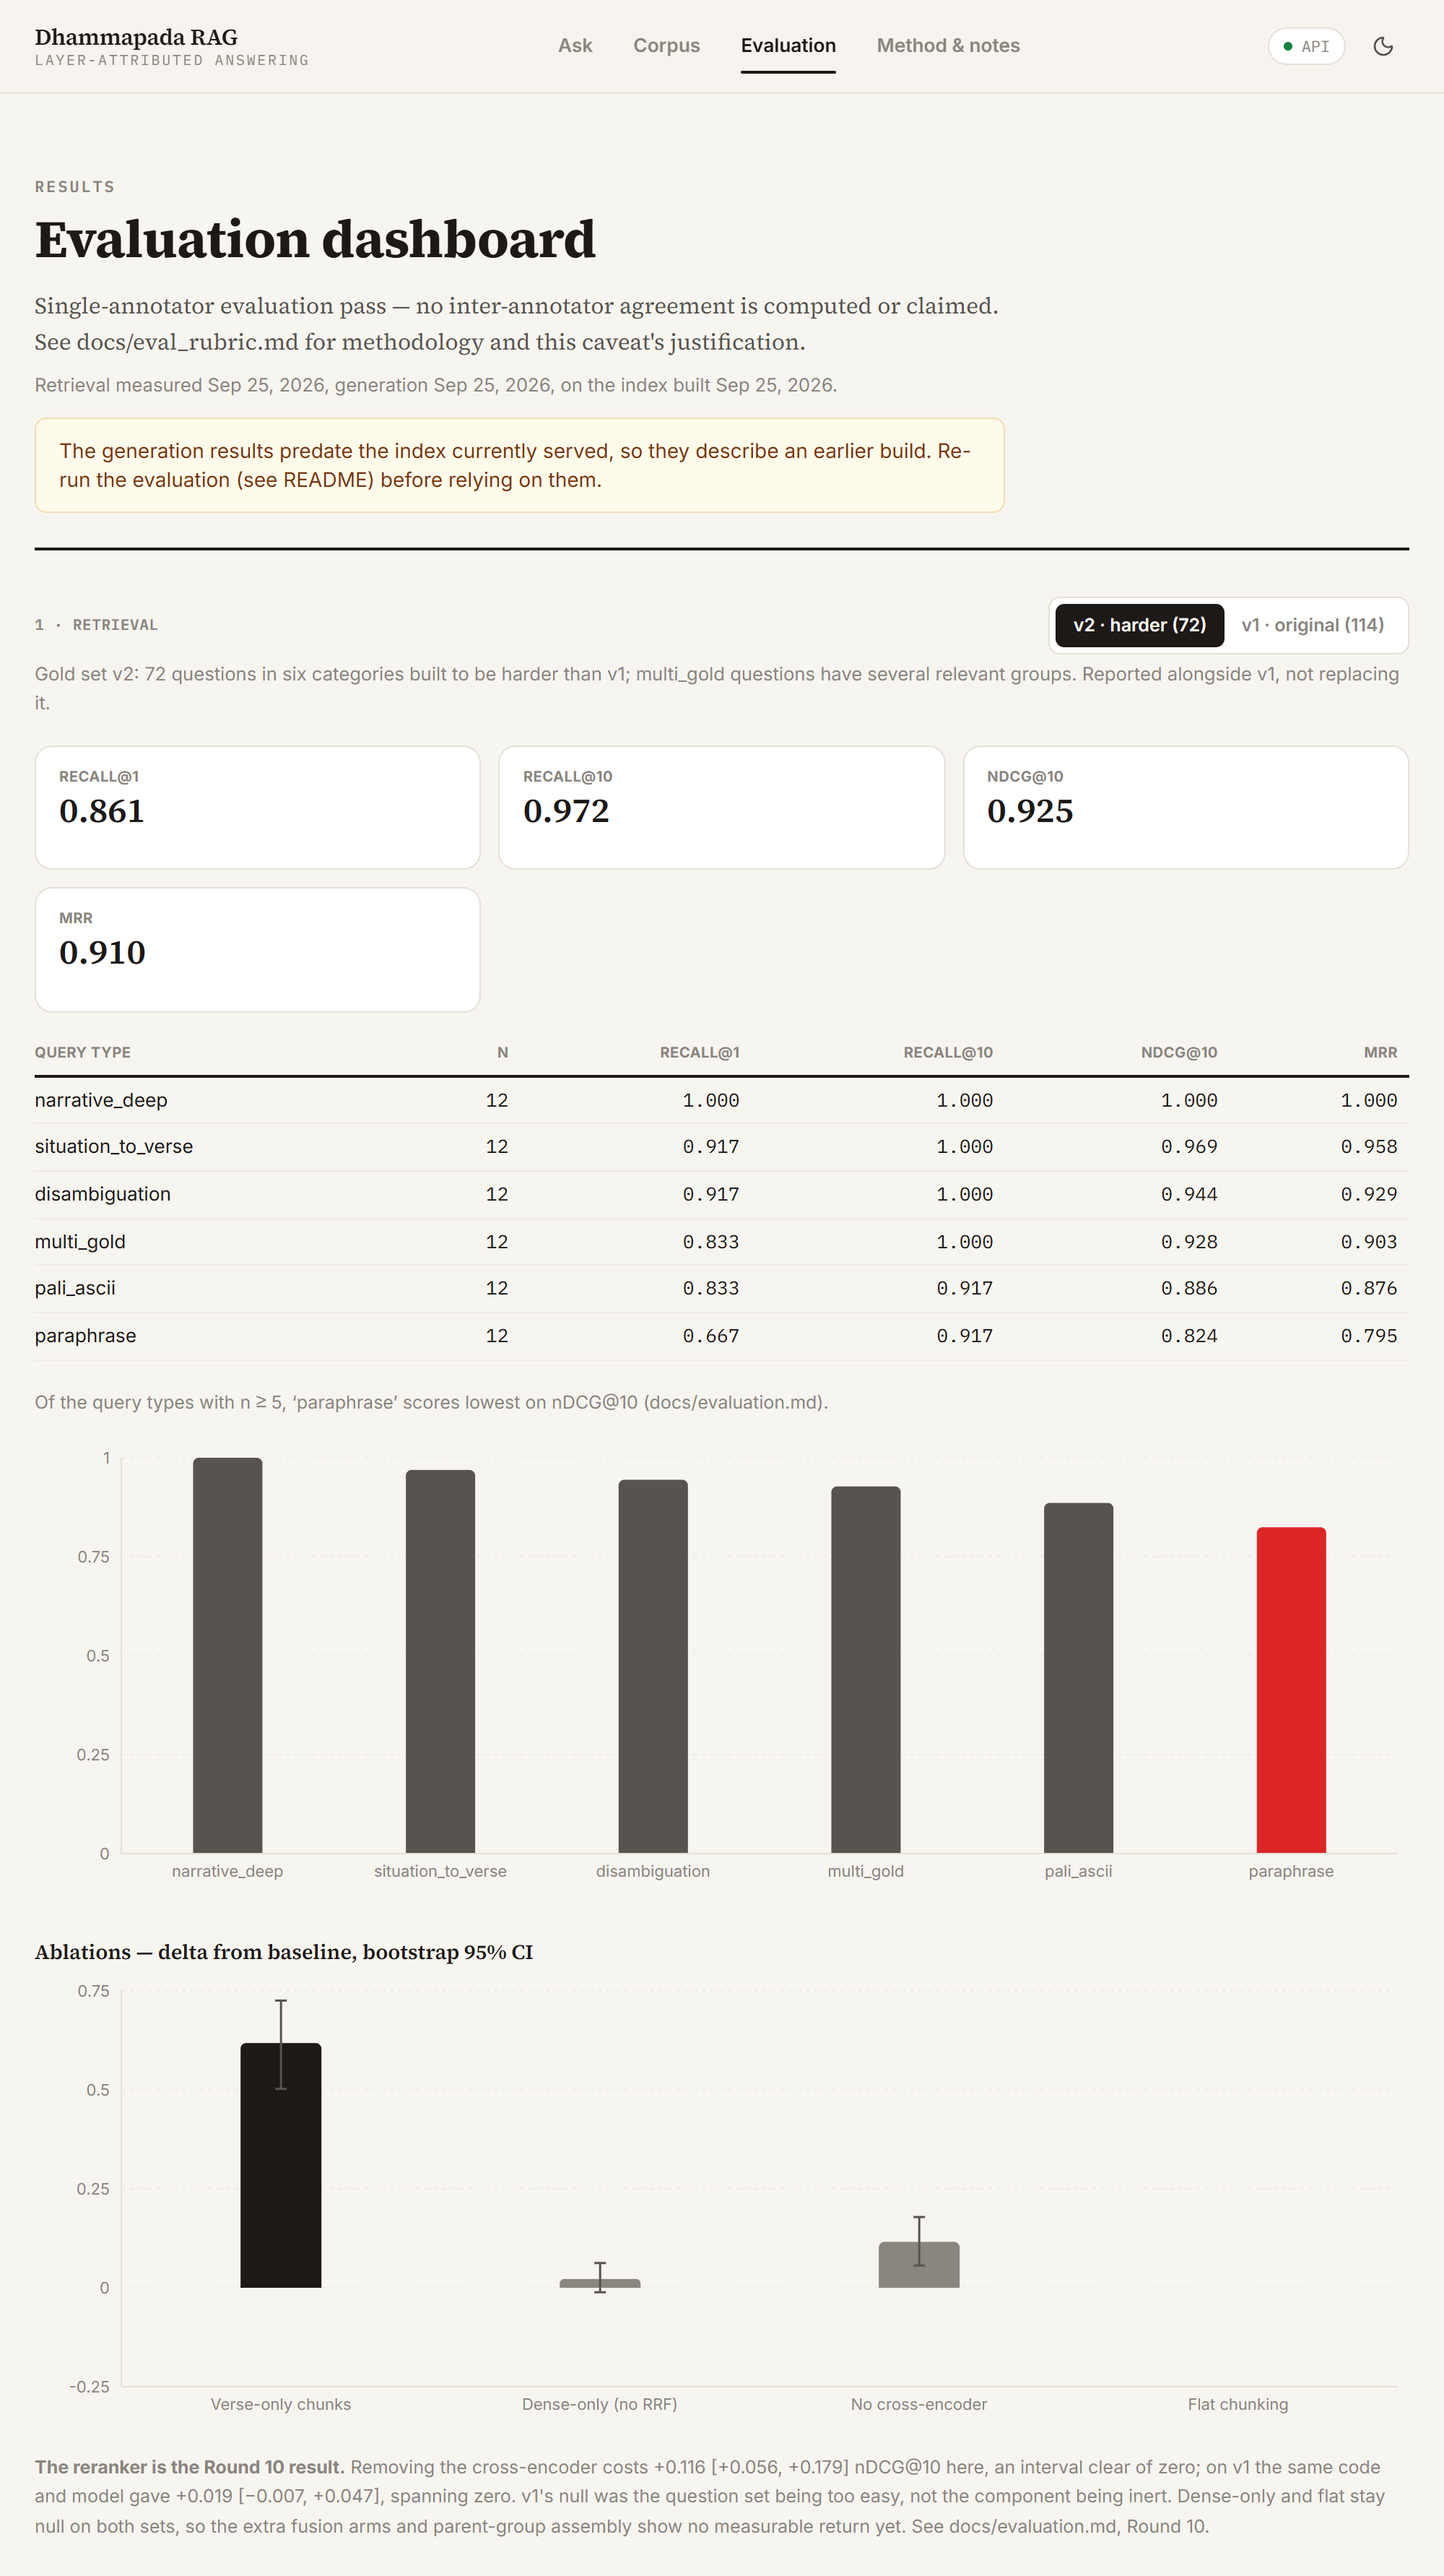
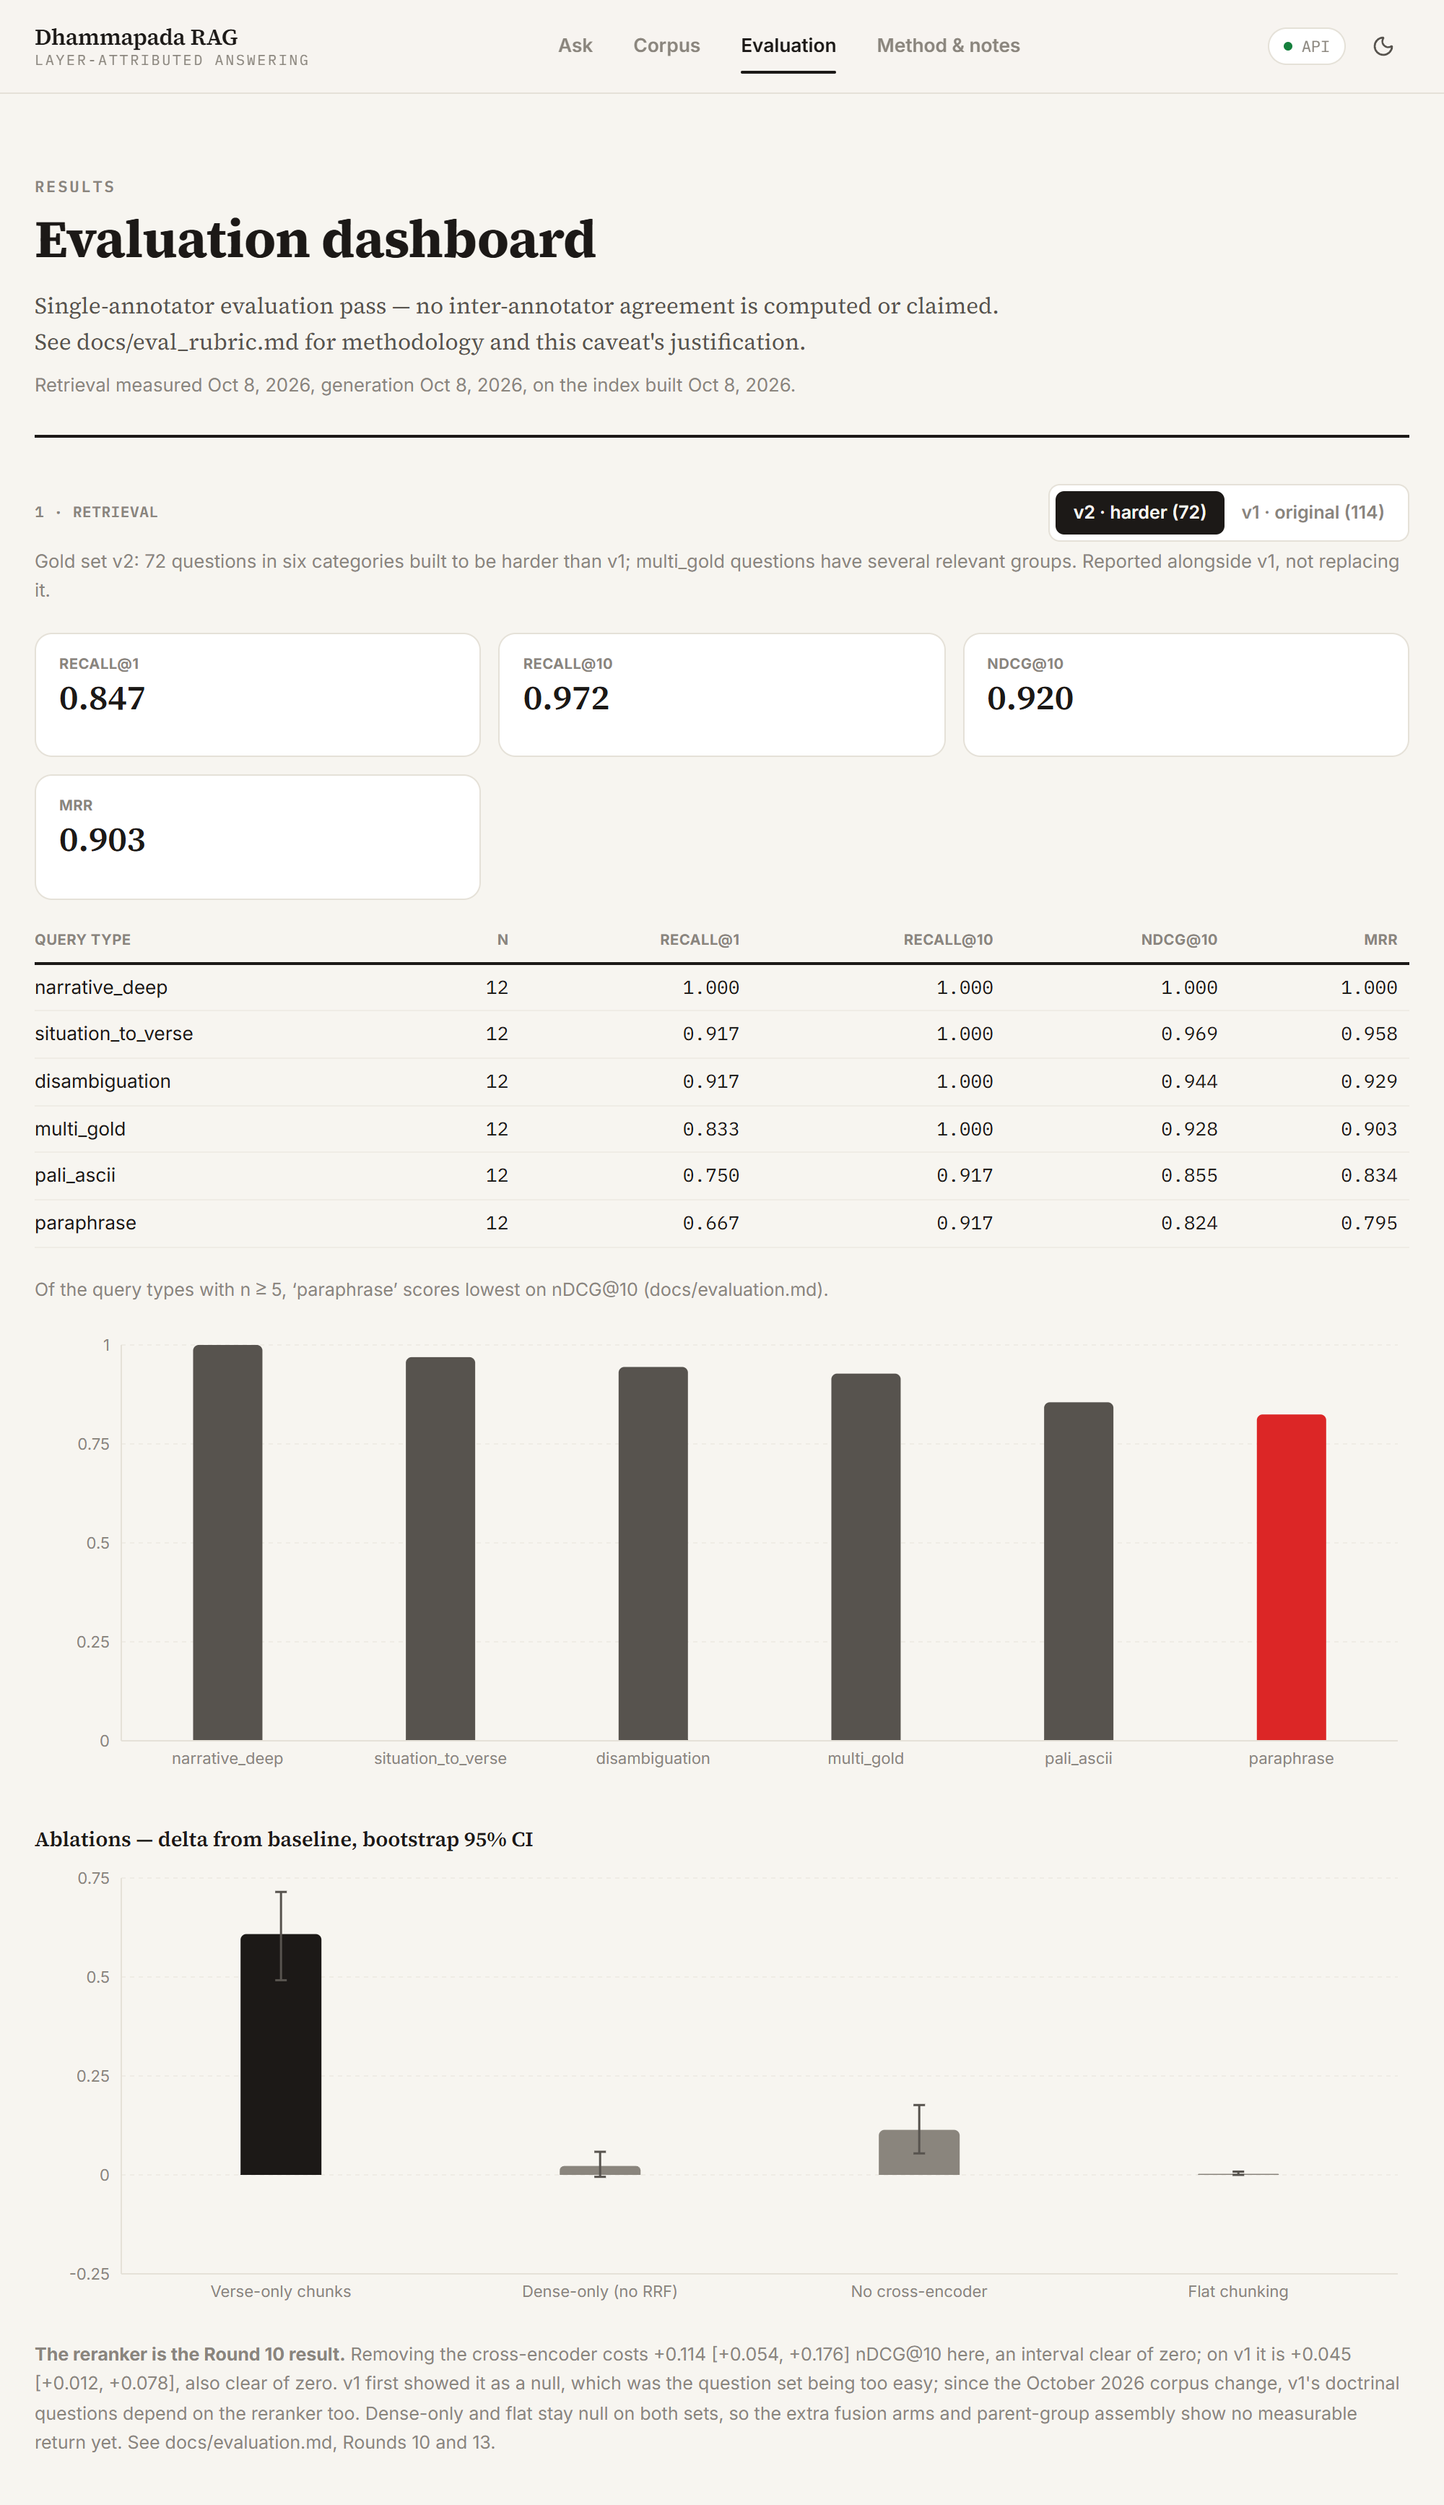
Evaluation page: reranker sentence follows the data; retake its screenshot
The closing sentence under the ablation chart said v1's reranker delta was
"spanning zero" and "v1's null" as fixed text. Since Round 13 v1's interval
excludes zero (+0.045 [+0.012, +0.078]), so the page contradicted its own
numbers. The sentence now depends on whether v1's lower bound is above zero.

docs/img/evaluation.png retaken: it showed the pre-Round-13 numbers and the
stale-generation banner. Same framing as before (retrieval section, v2).

diff --git a/web/app/evaluation/page.tsx b/web/app/evaluation/page.tsx
@@ -327,16 +327,26 @@ export default function EvaluationPage() {
                       <strong>The reranker is the Round 10 result.</strong> Removing the cross-encoder
                       costs {fmtDelta(retrieval.ablation_deltas_ndcg10?.no_rerank)} nDCG@10 here, an
                       interval clear of zero
-                      {retrievalBySet.v1?.ablation_deltas_ndcg10?.no_rerank && (
-                        <>
-                          ; on v1 the same code and model gave{" "}
-                          {fmtDelta(retrievalBySet.v1.ablation_deltas_ndcg10.no_rerank)}, spanning zero
-                        </>
-                      )}
-                      . v1&apos;s null was the question set being too easy, not the component being
-                      inert. Dense-only and flat stay null on both sets, so the extra fusion arms and
+                      {retrievalBySet.v1?.ablation_deltas_ndcg10?.no_rerank &&
+                        (retrievalBySet.v1.ablation_deltas_ndcg10.no_rerank.ci[0] > 0 ? (
+                          <>
+                            ; on v1 it is{" "}
+                            {fmtDelta(retrievalBySet.v1.ablation_deltas_ndcg10.no_rerank)}, also clear
+                            of zero. v1 first showed it as a null, which was the question set being
+                            too easy; since the October 2026 corpus change, v1&apos;s doctrinal
+                            questions depend on the reranker too
+                          </>
+                        ) : (
+                          <>
+                            ; on v1 the same code and model gave{" "}
+                            {fmtDelta(retrievalBySet.v1.ablation_deltas_ndcg10.no_rerank)}, spanning
+                            zero. v1&apos;s null was the question set being too easy, not the component
+                            being inert
+                          </>
+                        ))}
+                      . Dense-only and flat stay null on both sets, so the extra fusion arms and
                       parent-group assembly show no measurable return yet. See docs/evaluation.md,
-                      Round 10.
+                      Rounds 10 and 13.
                     </p>
                   )}
                 </div>
